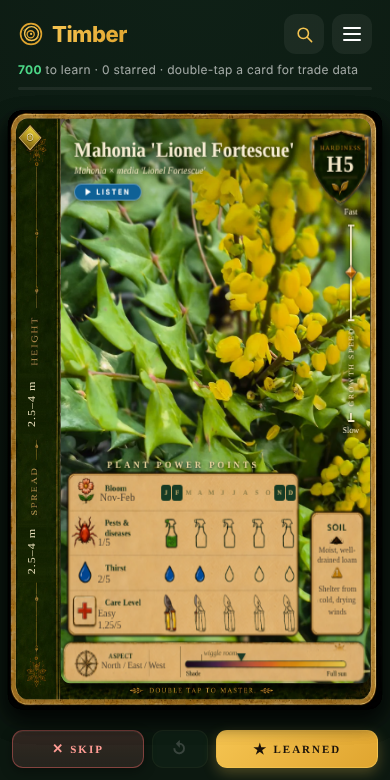
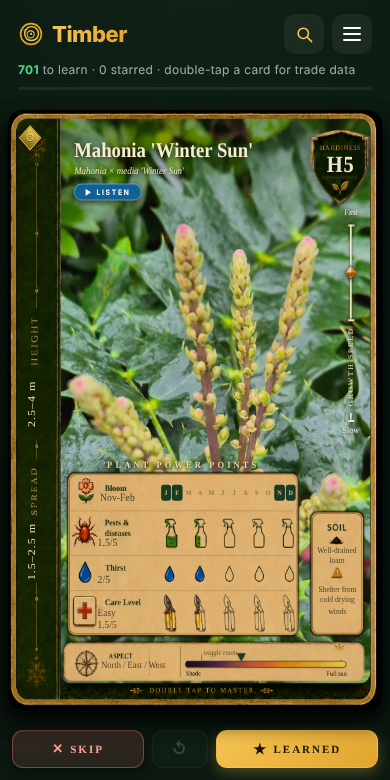
Deal Mahonia × media 'Winter Sun' from Forge batch 2026-11-08 and Oscar's photo, draft checked online; deck 700 -> 701 (r439)
Claude-Session: https://claude.ai/code/session_015xuecdm77P34PB8VBsKYMn

diff --git a/timber.html b/timber.html
@@ -1256,7 +1256,7 @@
 
 <script>
 /* ---------- latin pronunciation (built-in speech engine — offline, no files, no deps) ---------- */
-const BUILD='r438 · 2026-11-08 · 67f5902';
+const BUILD='r439 · 2026-11-08 · 8085f63';
 /* Shown in the menu foot so a phone's version is checkable at a glance — the SW
    serves the previous build once before swapping, which made "which build am I
    on?" a real question. DO NOT EDIT BY HAND: the trailing hash is a digest of
@@ -16337,6 +16337,19 @@ const PLANTS = [
    uses:"Shady borders · woodland planting · winter interest · security planting", size:"2.5–4 m H × 2.5–4 m W",
    toxicity:"Leaflets carry sharp spines, so wear gloves when handling. Berries and roots contain berberine and may cause a mild stomach upset if a child eats many; the ASPCA lists common Mahonia as safe for dogs and cats.", hardinessNote:"Hardy in most places throughout the UK, approximately -15 to -10°C.", foliage:"evergreen; long pinnate leaves of 17–21 spiny dark green leaflets", stockForm:"container", pollination:"not applicable", clay:"yes",
    seasonalImpact:"", growthSpeed:10, pestRisk:4, thirst:8, careLevel:5, sunNeed:35, sunMin:10},
+  {common:"Mahonia 'Winter Sun'", latin:"Mahonia × media 'Winter Sun'", hue:55,
+   visual:"Dense upright sprays of scented bright yellow winter flowers · spiny dark green leaves",
+   water:"Water regularly in the first year; once established it copes with dry spells, but do not let it dry out in hot summers.",
+   aspect:"North / East / West",
+   soil:"Well-drained loam; Shelter from cold drying winds",
+   prune:"Little needed. After flowering, cut leggy stems back to a leaf rosette to keep it bushy; old bare plants can be cut back hard in spring.",
+   source:"", peak:"Nov-Feb", order:"", bench:"", root:"",
+   trade:"", retail:"", margin:"", type:"", shrink:"", returnRisk:"", pots:"",
+   cvs:"'Charity' – spreading sprays, the classic · 'Lionel Fortescue' – very upright, longer sprays · 'Buckland' – longer, arching sprays",
+   hardiness:"H5", resilience:"Tough, shade-tolerant evergreen that copes with clay and dry shade once established. Flowers in winter when little else does. Pests: occasional mahonia rust and leaf-spot, mostly cosmetic.",
+   uses:"Winter interest · shady borders · winter food for bees · informal screen or barrier · woodland gardens", size:"2.5–4 m H × 1.5–2.5 m W",
+   toxicity:"Leaflets carry sharp spines, so wear gloves when handling. Berries and roots contain berberine and may cause a mild stomach upset if a child eats many; the ASPCA lists common Mahonia as safe for dogs and cats.", hardinessNote:"Hardy in a cold winter throughout most of the UK, approximately -15 to -10°C.", foliage:"evergreen; large pinnate leaves with spiny holly-like leaflets, sometimes reddish in cold weather", stockForm:"container", pollination:"not applicable", clay:"yes",
+   seasonalImpact:"", growthSpeed:10, pestRisk:6, thirst:8, careLevel:6, sunNeed:35, sunMin:10},
 ];
 /* PLANTS:END */
 /* HOLD:BEGIN — managed by plants-tool.js; keep this marker pair.
